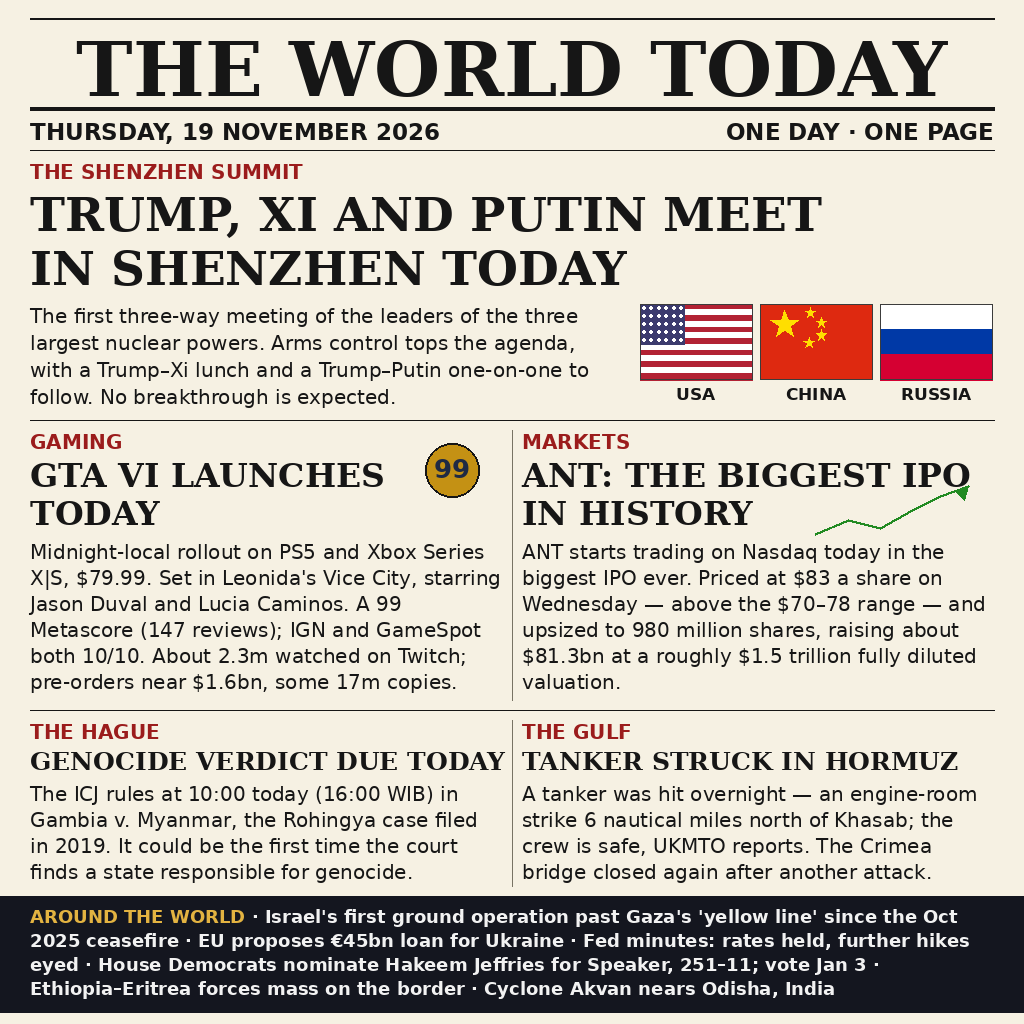
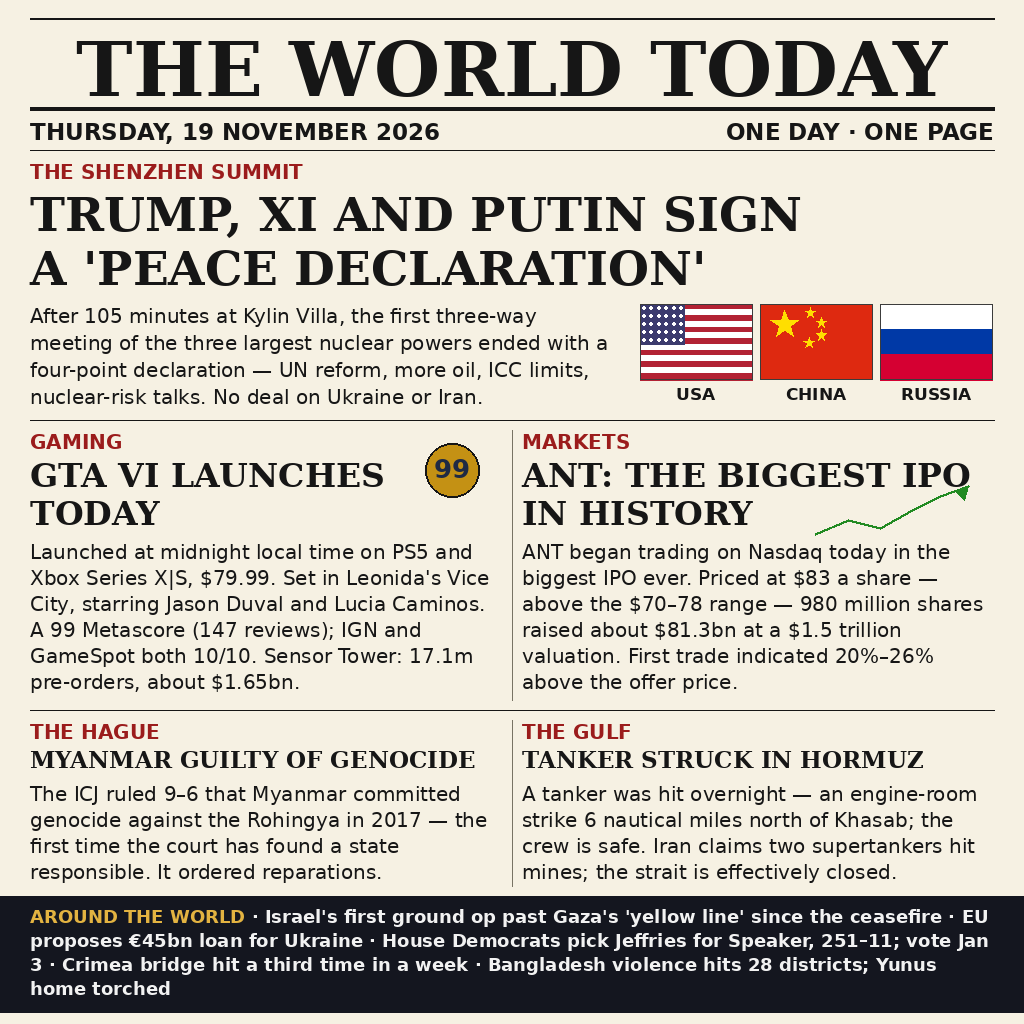
Evening refresh: summit declaration, ICJ guilty verdict, GTA VI launch, ANT first trade
- Lead: trilateral ends after 105 minutes with four-point 'peace
  declaration'; no deal on Ukraine or Iran
- ICJ rules 9-6 Myanmar committed genocide against the Rohingya,
  first time a state has been found responsible; reparations ordered
- GTA VI launched; Sensor Tower: 17.1m pre-orders, about $1.65bn
- ANT begins Nasdaq trading; first trade indicated 20%-26% above
  the $83 offer price
- Hormuz: Iran claims two supertankers hit mines; strait effectively
  closed. Ticker: Crimea bridge third strike, Bangladesh violence

diff --git a/draw_news.py b/draw_news.py
@@ -4,8 +4,12 @@
 A one-page newspaper front page rendered with Pillow: masthead and date
 bar, the Trump-Xi-Putin summit in Shenzhen as the lead story (with the
 three flags drawn from code), GTA VI's launch, Anthropic's record IPO,
-the ICJ verdict due in The Hague, a tanker struck in the Strait of
-Hormuz, and a world-news ticker along the bottom.
+the ICJ's genocide verdict in The Hague, a tanker struck in the Strait
+of Hormuz, and a world-news ticker along the bottom.
+
+Evening refresh: every "due today" item is replaced with its outcome —
+the summit's four-point declaration, the ICJ's guilty verdict, GTA VI's
+launch-day numbers, and ANT's first trades.
 
 Output: entry.png next to this script, 1024x1024, under 1 MiB.
 Run: python3 draw_news.py
@@ -134,14 +138,14 @@ def main():
     kicker = font(SANS_BOLD, 20)
     d.text((MARGIN, 160), "THE SHENZHEN SUMMIT", font=kicker, fill=RED)
     head = font(SERIF_BOLD, 47)
-    d.text((MARGIN, 186), "TRUMP, XI AND PUTIN MEET", font=head, fill=INK)
-    d.text((MARGIN, 240), "IN SHENZHEN TODAY", font=head, fill=INK)
+    d.text((MARGIN, 186), "TRUMP, XI AND PUTIN SIGN", font=head, fill=INK)
+    d.text((MARGIN, 240), "A 'PEACE DECLARATION'", font=head, fill=INK)
 
     body = font(SANS, 20)
-    lead_text = ("The first three-way meeting of the leaders of the three largest "
-                 "nuclear powers. Arms control tops the agenda, with a Trump–Xi "
-                 "lunch and a Trump–Putin one-on-one to follow. No breakthrough "
-                 "is expected.")
+    lead_text = ("After 105 minutes at Kylin Villa, the first three-way meeting of "
+                 "the three largest nuclear powers ended with a four-point "
+                 "declaration — UN reform, more oil, ICC limits, nuclear-risk "
+                 "talks. No deal on Ukraine or Iran.")
     end_y = text_block(d, MARGIN, 304, lead_text, body, 580, 27)
 
     fx, fw, fh, gap = 640, 112, 75, 8
@@ -173,10 +177,10 @@ def main():
     badge_font = font(SANS_BOLD, 26)
     bw = d.textlength("99", font=badge_font)
     d.text((bx - bw / 2, by - 17), "99", font=badge_font, fill=NAVY)
-    gta = ("Midnight-local rollout on PS5 and Xbox Series X|S, $79.99. Set in "
-           "Leonida's Vice City, starring Jason Duval and Lucia Caminos. A 99 "
-           "Metascore (147 reviews); IGN and GameSpot both 10/10. About 2.3m "
-           "watched on Twitch; pre-orders near $1.6bn, some 17m copies.")
+    gta = ("Launched at midnight local time on PS5 and Xbox Series X|S, "
+           "$79.99. Set in Leonida's Vice City, starring Jason Duval and Lucia "
+           "Caminos. A 99 Metascore (147 reviews); IGN and GameSpot both 10/10. "
+           "Sensor Tower: 17.1m pre-orders, about $1.65bn.")
     text_block(d, left_x, 540, gta, mid_body, col_w, 26)
 
     d.text((right_x, 430), "MARKETS", font=kicker, fill=RED)
@@ -187,28 +191,28 @@ def main():
     chart = [(815, 534), (848, 520), (880, 528), (912, 510), (940, 496), (968, 486)]
     d.line(chart, fill=GREEN, width=3, joint="curve")
     d.polygon([(968, 486), (954, 490), (964, 500)], fill=GREEN)
-    ipo = ("ANT starts trading on Nasdaq today in the biggest IPO ever. Priced "
-           "at $83 a share on Wednesday — above the $70–78 range — and upsized "
-           "to 980 million shares, raising about $81.3bn at a roughly $1.5 "
-           "trillion fully diluted valuation.")
+    ipo = ("ANT began trading on Nasdaq today in the biggest IPO ever. Priced "
+           "at $83 a share — above the $70–78 range — 980 million shares "
+           "raised about $81.3bn at a $1.5 trillion valuation. First trade "
+           "indicated 20%–26% above the offer price.")
     text_block(d, right_x, 540, ipo, mid_body, col_w, 26)
 
     d.line([(MARGIN, 710), (W - MARGIN, 710)], fill=INK, width=1)
 
     # ---------- third row: ICJ verdict / Hormuz tanker ----------
     d.line([(512, 720), (512, 886)], fill=GREY, width=1)
-    small_head = font(SERIF_BOLD, 25)
+    small_head = font(SERIF_BOLD, 23)
     d.text((left_x, 720), "THE HAGUE", font=kicker, fill=RED)
     d.text((right_x, 720), "THE GULF", font=kicker, fill=RED)
-    d.text((left_x, 746), "GENOCIDE VERDICT DUE TODAY", font=small_head, fill=INK)
+    d.text((left_x, 746), "MYANMAR GUILTY OF GENOCIDE", font=small_head, fill=INK)
     d.text((right_x, 746), "TANKER STRUCK IN HORMUZ", font=small_head, fill=INK)
-    icj = ("The ICJ rules at 10:00 today (16:00 WIB) in Gambia v. Myanmar, the "
-           "Rohingya case filed in 2019. It could be the first time the court "
-           "finds a state responsible for genocide.")
+    icj = ("The ICJ ruled 9–6 that Myanmar committed genocide against the "
+           "Rohingya in 2017 — the first time the court has found a state "
+           "responsible. It ordered reparations.")
     text_block(d, left_x, 782, icj, mid_body, col_w, 26)
     hormuz = ("A tanker was hit overnight — an engine-room strike 6 nautical "
-              "miles north of Khasab; the crew is safe, UKMTO reports. The "
-              "Crimea bridge closed again after another attack.")
+              "miles north of Khasab; the crew is safe. Iran claims two "
+              "supertankers hit mines; the strait is effectively closed.")
     text_block(d, right_x, 782, hormuz, mid_body, col_w, 26)
 
     # ---------- ticker ----------
@@ -216,14 +220,12 @@ def main():
     tick_font = font(SANS_BOLD, 18)
     tick_head = "AROUND THE WORLD"
     items = [
-        "Israel's first ground operation past Gaza's 'yellow line' since the "
-        "Oct 2025 ceasefire",
+        "Israel's first ground op past Gaza's 'yellow line' since the "
+        "ceasefire",
         "EU proposes €45bn loan for Ukraine",
-        "Fed minutes: rates held, further hikes eyed",
-        "House Democrats nominate Hakeem Jeffries for Speaker, 251–11; "
-        "vote Jan 3",
-        "Ethiopia–Eritrea forces mass on the border",
-        "Cyclone Akvan nears Odisha, India",
+        "House Democrats pick Jeffries for Speaker, 251–11; vote Jan 3",
+        "Crimea bridge hit a third time in a week",
+        "Bangladesh violence hits 28 districts; Yunus home torched",
     ]
     ticker_text = tick_head + "  ·  " + "  ·  ".join(items)
     lines = wrap(d, ticker_text, tick_font, W - 2 * MARGIN)
